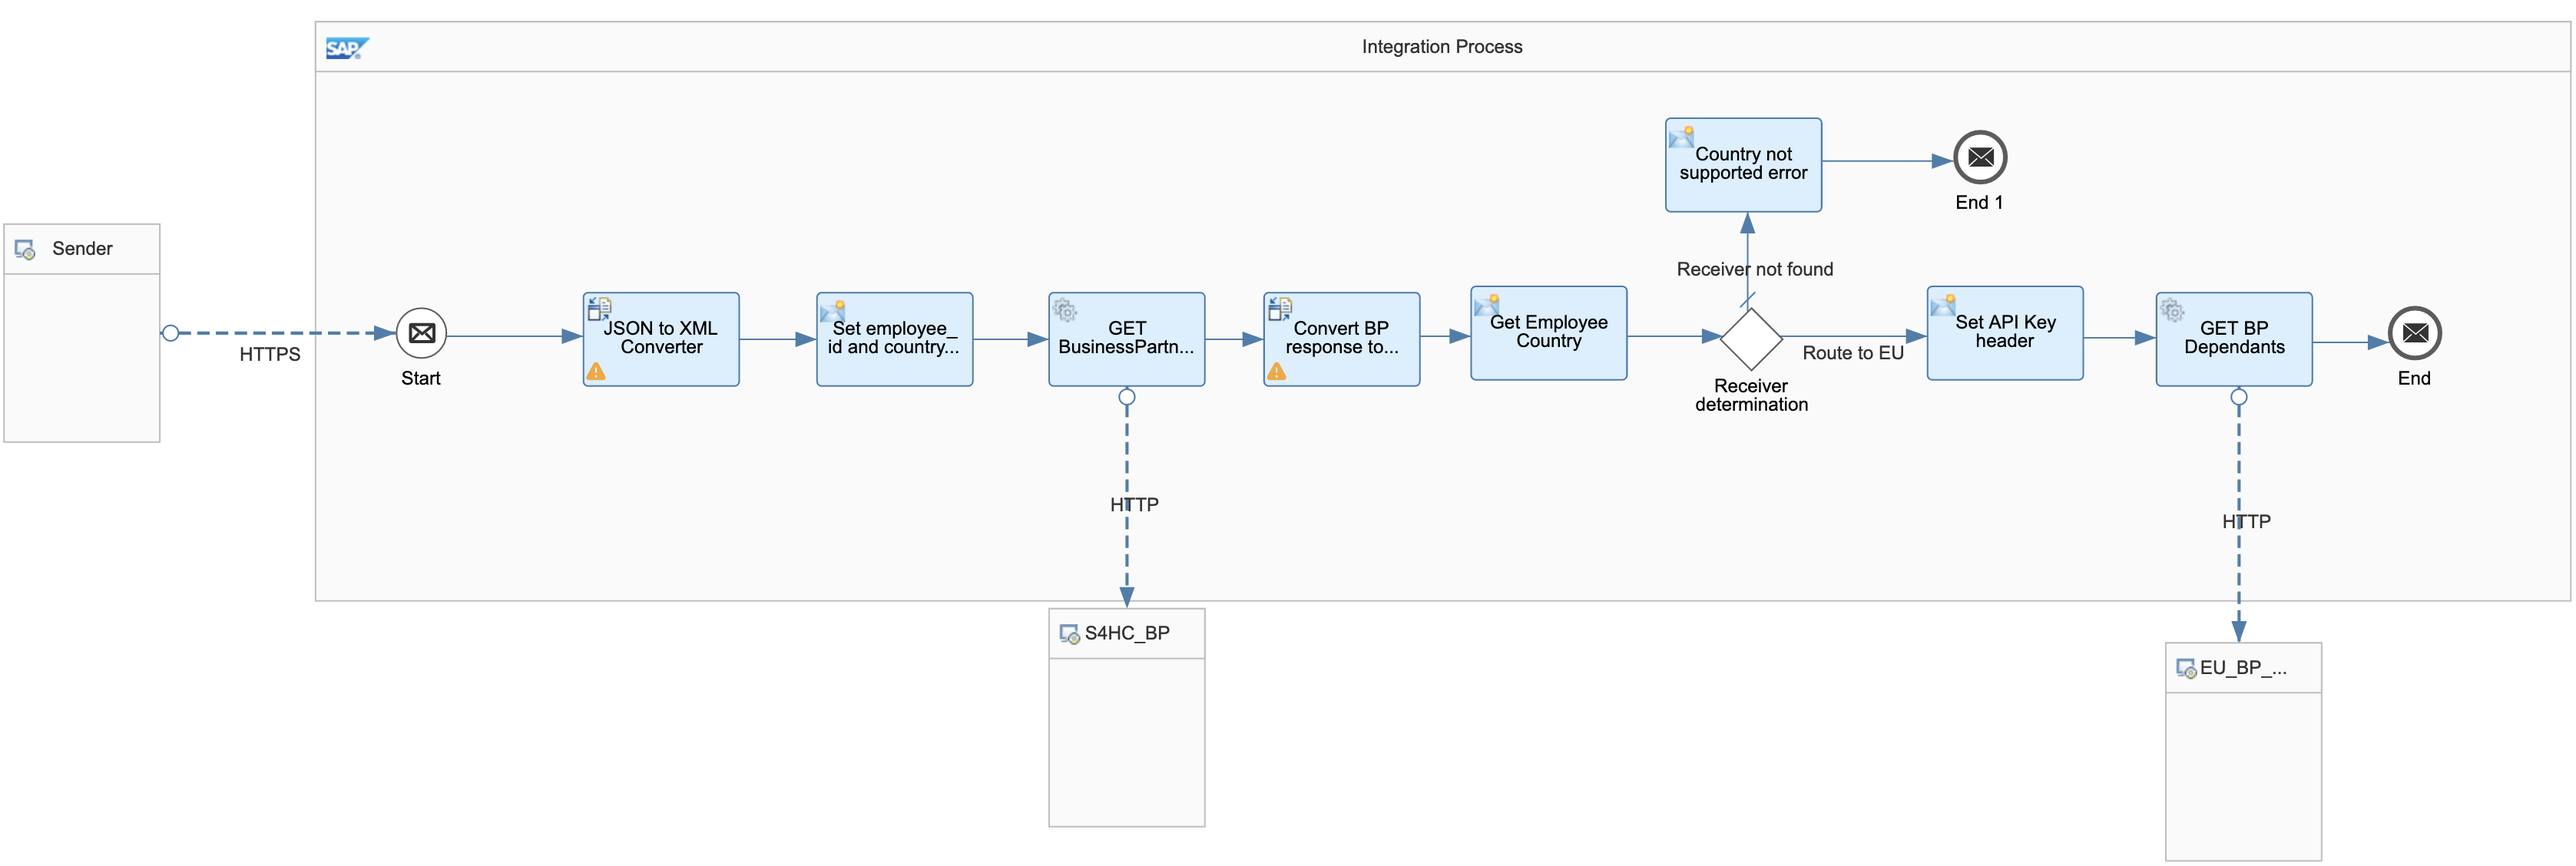
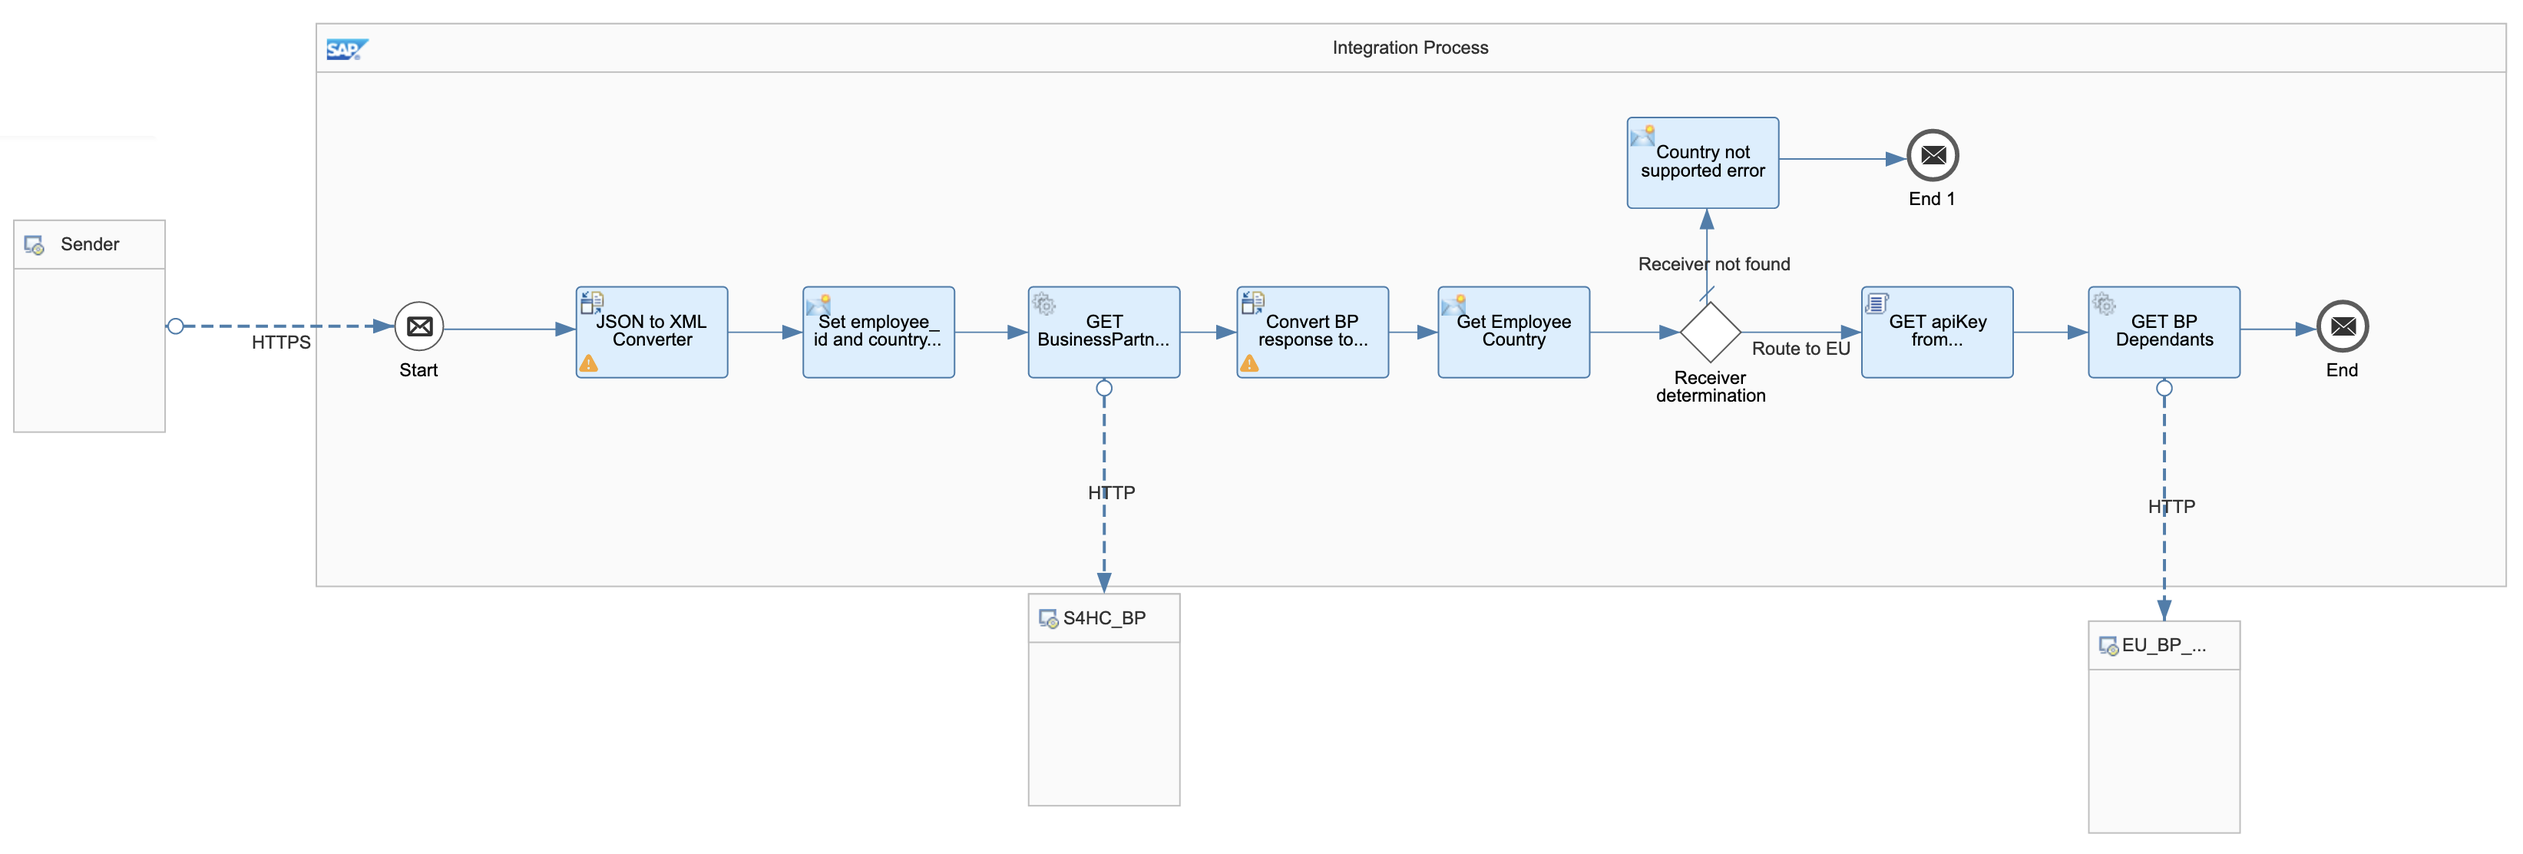
Completed exercise 05

diff --git a/exercises/05-retrieve-bp-dependants/README.md b/exercises/05-retrieve-bp-dependants/README.md
@@ -7,7 +7,7 @@ At the end of this exercise, you'll have successfully retrieved Business Partner
 <i>Exercise 05 - Data flow</i>
 </p>
 
-Now that we are familiar with the basics of SAP Cloud Integration, we will start moving a bit faster when adding components and deploying the integration flow. When we finish the exercise our integration flow will include a few additional Content Modifiers and we will have implemented a new pattern - Router (Content Based Routing)[^1].
+Now that we are familiar with the basics of SAP Cloud Integration, we will start moving a bit faster when adding components and deploying the integration flow. When we finish the exercise, the integration flow will include a few additional Content Modifiers and we will be familiar with a few new concepts/components, externalised parameters, simulation, secure store, scripting, and  implemented a new pattern - Router (Content Based Routing)[^1].
 
 ![Integration flow - End of Exercise 05](assets/end-of-exercise-integration-flow.png)
 <p align = "center">
@@ -145,7 +145,7 @@ We need to include an API key in the request we send to the EU instance of the B
 
 #### Add Groovy script and Request Reply
 
-To include the API Key in our request, we will first retrieve the secure parameter using a Groovy script and in the same script, we will add it as a header in the exchange. The script that we will use is included in the [exercises/05-retrieve-bp-dependants/assets/scripts](assets/scripts/retrieve-api-key.groovy) folder
+To include the API Key in our request, we will first retrieve the secure parameter using a Groovy script and in the same script, we will add it as a header in the exchange. The script that we will use is included in the [exercises/05-retrieve-bp-dependants/assets/scripts](assets/scripts/retrieve-api-key.groovy) folder. 
 
 ![Add Groovy script and Request Reply](assets/add-script-and-request-reply.png)
 <p align = "center">
@@ -153,7 +153,29 @@ To include the API Key in our request, we will first retrieve the secure paramet
 </p>
 
 👉 In the `Route to EU` route, add a `Groovy Script` step, followed by a `Request Reply` and a new `Receiver participant`.
-- *Groovy script*: Import the script included in the exercise assets folder by uploading it from the file system after clicking the Select button and set `processData` as the script function in the processing tab.
+- *Groovy script*: Import the script included in the exercise assets folder by uploading it from the file system after clicking the Select button and set `processData` as the script function in the processing tab. The script reads an exchange property to know which secure parameter it needs to retrieve from the secure store. Once retrieved, it sets the value as a header in the exchange.
+  ```groovy
+  import com.sap.gateway.ip.core.customdev.util.Message;
+  import com.sap.it.api.ITApiFactory;
+  import com.sap.it.api.securestore.SecureStoreService
+  import com.sap.it.api.securestore.exception.SecureStoreException
+
+  // Source: Read Security-Related Artifacts
+  // https://help.sap.com/docs/CLOUD_INTEGRATION/368c481cd6954bdfa5d0435479fd4eaf/8dd981e4f1f44d22bee22c174e5c52d0.html?locale=en-US
+
+  def Message processData(Message message) {
+      def apiKeyAlias = message.getProperty("eu-bp-dependants-api-key-alias")
+      def secureStorageService =  ITApiFactory.getService(SecureStoreService.class, null)
+      try{
+          def secureParameter = secureStorageService.getUserCredential(apiKeyAlias)
+          def apiKey = secureParameter.getPassword().toString()
+          message.setHeader("apiKey", apiKey)
+      } catch(Exception e){
+          throw new SecureStoreException("Secure Parameter not available")
+      }
+      return message;
+  }
+  ```
 - *Request Reply → Receiver participant*: We will use the HTTP adapter to communicate with the service. Set the below configuration details in the HTTP adapter.
 
   | Field             | Value                                                                                                                  |
@@ -164,28 +186,43 @@ To include the API Key in our request, we will first retrieve the secure paramet
   | *Authenticaton*   | None                                                                                                                   |
   | *Request Headers* | apiKey                                                                                                                 |
 
+We are almost done, we just need to define the property that the script is reading and we are ready to deploy the integration flow.
 
+👉 Add a new exchange property in the `Set employee id and country` content modifier with the same name specified in the Groovy script `eu-bp-dependants-api-key-alias`. Set as the value an external parameter with the same name - `eu-bp-dependants-api-key-alias` -  and set as the default value the name of the secure parameter that we deployed before, e.g. `bp-dependants-eu`.
 
 ## Deploy
 
-Justo donec enim diam vulputate ut pharetra. Pulvinar proin gravida hendrerit lectus a. Leo a diam sollicitudin tempor id eu. Enim eu turpis egestas pretium aenean pharetra magna. Et molestie ac feugiat sed lectus vestibulum mattis. A iaculis at erat pellentesque. 
+👉 Save and deploy the integration flow.
 
+> If the deployment process fails with an error similar to this: [Failed to create route - HTTP address already registered](../../troubleshooting.md#failed-to-create-route---http-address-already-registered-for-another-iflow), add a suffix to the address in the `HTTP Sender` adapter, e.g. `-ex5`, so that the address `/request-employee-dependants-ex5`  doesn't clash with the one configured for our previous integration flow, and try deploying it again.
+
+Our integration flow is now ready. Let's send some messages to it using Postman. 
+
+👉 Open the `Request Employee Dependants - Exercise 05` request under the cloud-integration folder in the Postman collection and test the following scenarios:
+- Send a request for `employee_id` = 1003764. Where is this employee from and what's the response you get?
+- Now, `employee_id` = 1003765. Where is this employee from and what's the response you get?
+- Finally, an employee that doesn't exist, e.g. `8765432ABC`.
 
 ## Summary
 
-Now that you are familiar with the basic functionality of SAP API Business Hub and the Business Partner API, we are ready to start interacting with the services from which our integration will be extracting data.
+We've added some cool functionality to the integration flow. Some parts of it have been parametrised, it does some data validations, it communicates with more than one service and we even modify its behaviour by using the exchange headers.
 
 ## Further reading
 
-* [Link 1](https://blogs.sap.com/)
-* [Link 2](https://blogs.sap.com/)
+* [Externalise parameters of an integration flow](https://help.sap.com/docs/CLOUD_INTEGRATION/368c481cd6954bdfa5d0435479fd4eaf/45b2a0772db94bd9b0e57bc82d8d3797.html?locale=en-US)
+* [Message routers in SAP Cloud Integration](https://help.sap.com/docs/CLOUD_INTEGRATION/368c481cd6954bdfa5d0435479fd4eaf/ad0a19ab854c4e6e929013a9be66d809.html?locale=en-US)
+* [Integration Flow Design Guidelines - Enterprise Integration Patterns](https://api.sap.com/package/DesignGuidelinesPatterns/integrationflow)
 
 ---
 
 If you finish earlier than your fellow participants, you might like to ponder these questions. There isn't always a single correct answer and there are no prizes - they're just to give you something else to think about.
 
 1. How else could we have set the API key required by BP Dependants service? Is it secure? 
-2. How can we prevent hard coding the service host name in the HTTP adapter? 
+2. How can we prevent hard coding the service hostname in the HTTP adapter? 
+
+## Next
+
+Continue to 👉 [Exercise 06 - Add the Americas instance of the Business Partner Dependants service](../06-add-americas-bp-dependants/)
 
 [^1]: Pattern Content Based Routing: https://api.sap.com/integrationflow/Pattern_ContentBasedRouting_IgnoreIfNoReceiver
 [^2]: Simple: https://camel.apache.org/components/3.18.x/languages/simple-language.html 

diff --git a/exercises/03-build-first-integration-flow/README.md b/exercises/03-build-first-integration-flow/README.md
@@ -259,7 +259,7 @@ Once deployed, and the runtime status is `✅ Started`, you can click the `Navig
 
 ## Summary
 
-Congratulations, you've built and deployed the first integration flow. Now you have a basic understanding of some of the most commonly used integration flow steps.
+Congratulations, you've built and deployed the first integration flow. You now have a basic understanding of some of the most commonly used integration flow steps.
 
 ## Further reading
 
